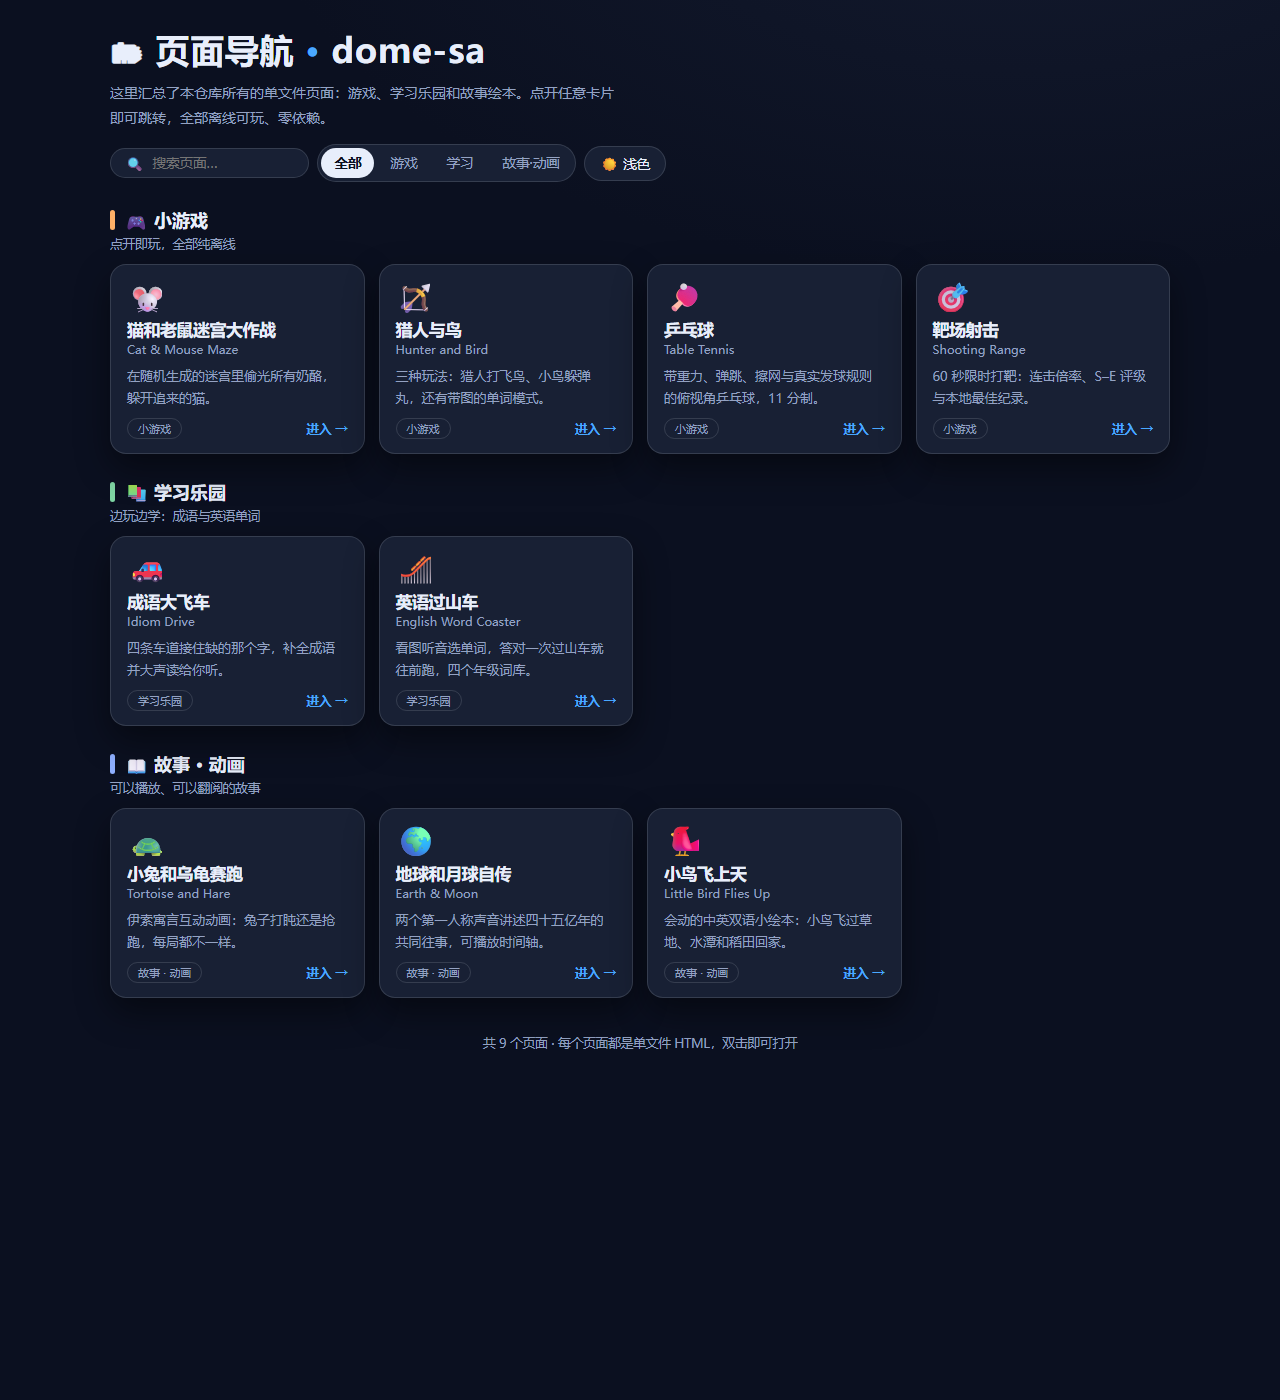
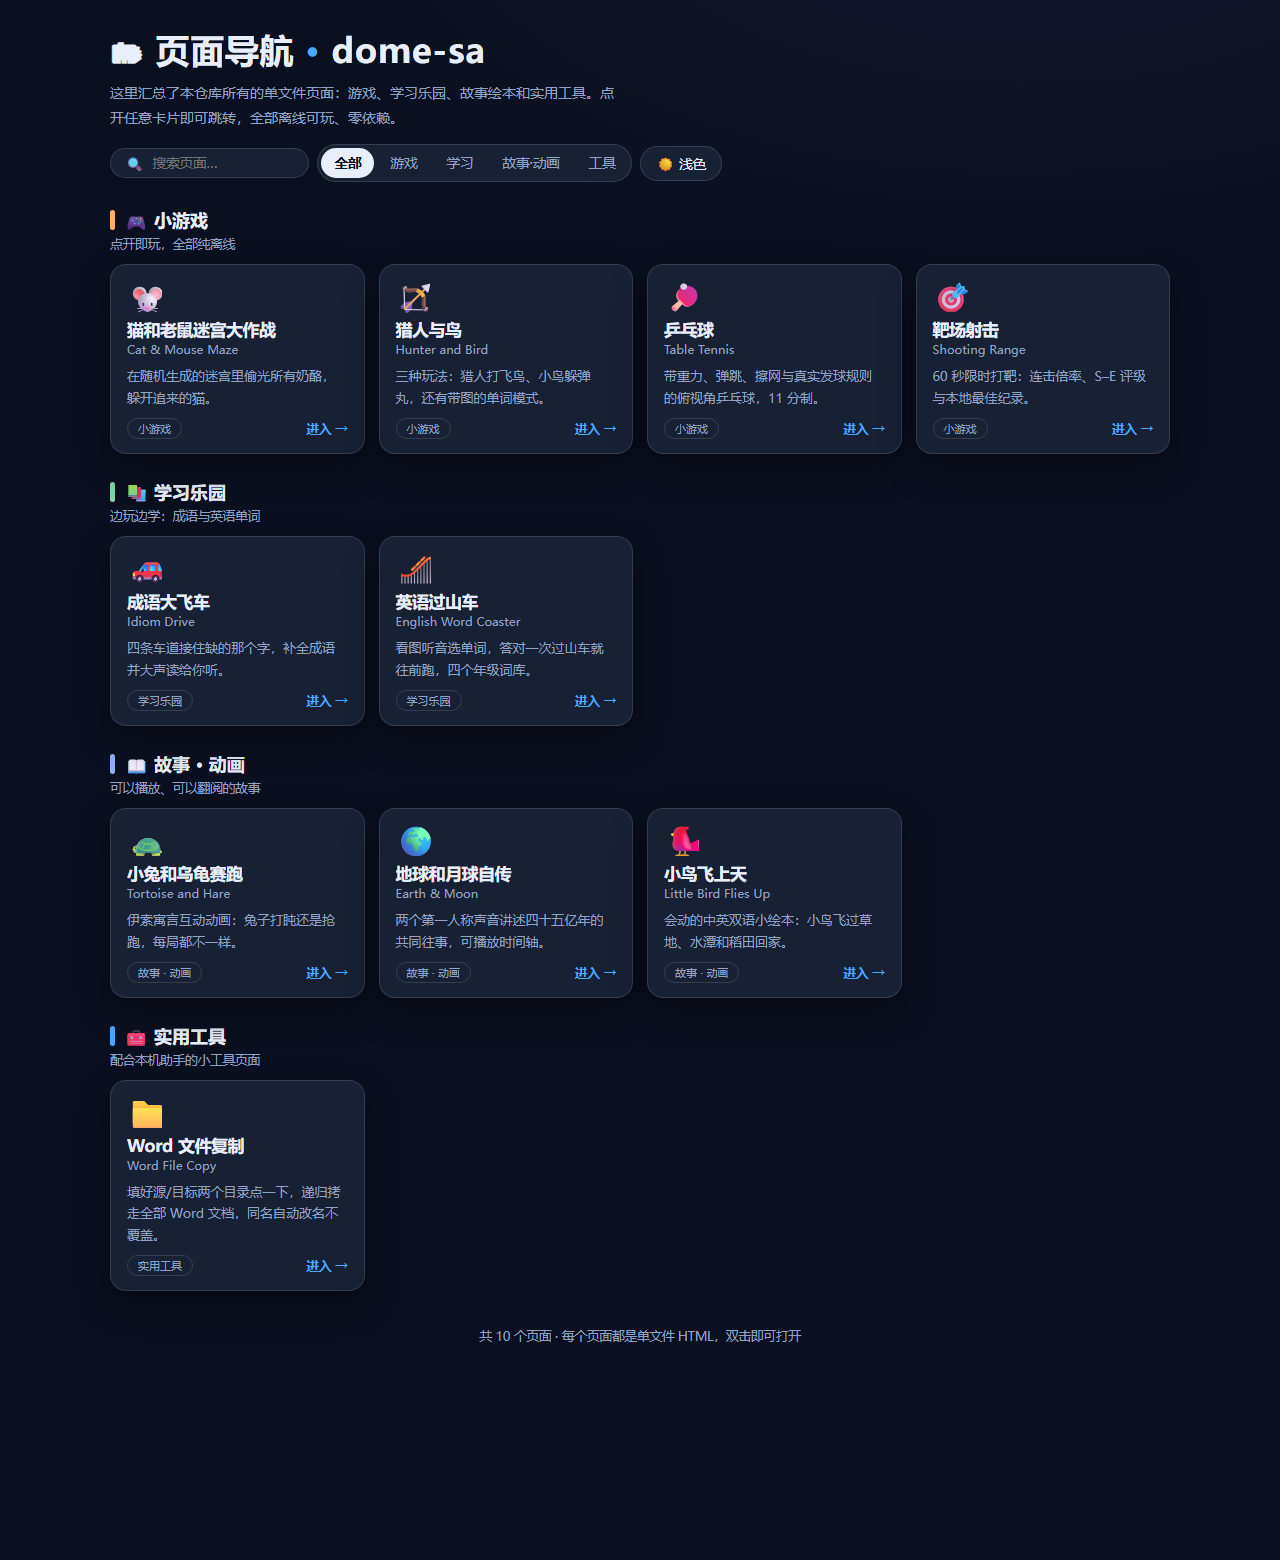
feat(index): add word-copy.html entry to the navigation hub
- New card in a fourth group 实用工具 for word-copy.html (the Word file
  copy page from PR #20), with search keywords and category chip.
- selftest gains a 工具-filter assertion (9 checks now, all passing).
- Refreshed before/after screenshots for the updated page.

diff --git a/index.html b/index.html
@@ -74,7 +74,7 @@ footer{margin-top:34px;color:var(--muted);font-size:12.5px;line-height:1.8;text-
   <header>
     <div>
       <h1>🗂 页面导航<span class="dot"> · </span>dome-sa</h1>
-      <p class="sub">这里汇总了本仓库所有的单文件页面：游戏、学习乐园和故事绘本。点开任意卡片即可跳转，全部离线可玩、零依赖。</p>
+      <p class="sub">这里汇总了本仓库所有的单文件页面：游戏、学习乐园、故事绘本和实用工具。点开任意卡片即可跳转，全部离线可玩、零依赖。</p>
     </div>
     <div class="tools">
       <span class="search"><span>🔍</span><input id="q" type="search" placeholder="搜索页面…" aria-label="搜索页面"></span>
@@ -83,6 +83,7 @@ footer{margin-top:34px;color:var(--muted);font-size:12.5px;line-height:1.8;text-
         <button data-f="play">游戏</button>
         <button data-f="learn">学习</button>
         <button data-f="story">故事·动画</button>
+        <button data-f="tool">工具</button>
       </span>
       <button id="themeBtn">🌙 深色</button>
     </div>
@@ -116,13 +117,16 @@ const PAGES = [
   { file:'earth-moon-story.html', emoji:'🌍', name:'地球和月球自传', en:'Earth & Moon',
     desc:'两个第一人称声音讲述四十五亿年的共同往事，可播放时间轴。', cat:'story', tags:'地球 月球 宇宙 时间轴 科普' },
   { file:'bird-story.html', emoji:'🐦', name:'小鸟飞上天', en:'Little Bird Flies Up',
-    desc:'会动的中英双语小绘本：小鸟飞过草地、水潭和稻田回家。', cat:'story', tags:'绘本 双语 小鸟 童话' }
+    desc:'会动的中英双语小绘本：小鸟飞过草地、水潭和稻田回家。', cat:'story', tags:'绘本 双语 小鸟 童话' },
+  { file:'word-copy.html', emoji:'📁', name:'Word 文件复制', en:'Word File Copy',
+    desc:'填好源/目标两个目录点一下，递归拷走全部 Word 文档，同名自动改名不覆盖。', cat:'tool', tags:'word 复制 文件 目录 工具 docx' }
 ];
 
 const GROUPS = {
   play:  { title:'🎮 小游戏',       color:'var(--play)',  hint:'点开即玩，全部纯离线' },
   learn: { title:'📚 学习乐园',     color:'var(--learn)', hint:'边玩边学：成语与英语单词' },
-  story: { title:'📖 故事 · 动画',  color:'var(--story)', hint:'可以播放、可以翻阅的故事' }
+  story: { title:'📖 故事 · 动画',  color:'var(--story)', hint:'可以播放、可以翻阅的故事' },
+  tool:  { title:'🧰 实用工具',     color:'var(--accent)', hint:'配合本机助手的小工具页面' }
 };
 
 const $ = id => document.getElementById(id);
@@ -147,7 +151,7 @@ function card(p){
 }
 function escapeHtml(s){ return s.replace(/[&<>"']/g, c => ({'&':'&amp;','<':'&lt;','>':'&gt;','"':'&quot;',"'":'&#39;'}[c])); }
 
-for (const key of ['play','learn','story']){
+for (const key of ['play','learn','story','tool']){
   const g = document.createElement('section');
   g.className = 'group'; g.dataset.group = key;
   g.innerHTML = '<h2><span class="bar" style="background:' + GROUPS[key].color + '"></span>' +
@@ -208,6 +212,10 @@ if (qs.get('selftest') === '1'){
   filterCat = 'play'; applyFilter();
   T(main.querySelectorAll('a.card:not([style*="none"])').length ===
     PAGES.filter(p => p.cat === 'play').length, '按「游戏」过滤数量正确');
+  filterCat = 'tool'; applyFilter();
+  T(main.querySelectorAll('a.card:not([style*="none"])').length ===
+    PAGES.filter(p => p.cat === 'tool').length, '按「工具」过滤数量正确');
+  filterCat = 'all';
   $('q').value = '乒乓'; applyFilter();
   T(main.querySelectorAll('a.card:not([style*="none"])').length === 1, '关键词「乒乓」只命中 1 个');
   $('q').value = 'zzzz不存在'; applyFilter();

diff --git a/README.md b/README.md
@@ -320,7 +320,7 @@ This line was added to verify the agent flow.
 明天会更好
 ## 页面导航
 
-`index.html` 是仓库的导航首页：汇总下面所有游戏、学习与故事页面，点开任意卡片即可跳转，支持分类筛选、关键词搜索与深色模式。`index.html?selftest=1` 会在页底跑页内自检（清单数量、链接有效性、过滤与搜索）。
+`index.html` 是仓库的导航首页：汇总下面所有游戏、学习、故事与工具页面（含 `word-copy.html`），点开任意卡片即可跳转，支持分类筛选、关键词搜索与深色模式。`index.html?selftest=1` 会在页底跑页内自检（清单数量、链接有效性、过滤与搜索）。
 
 ## 地月自传
 
